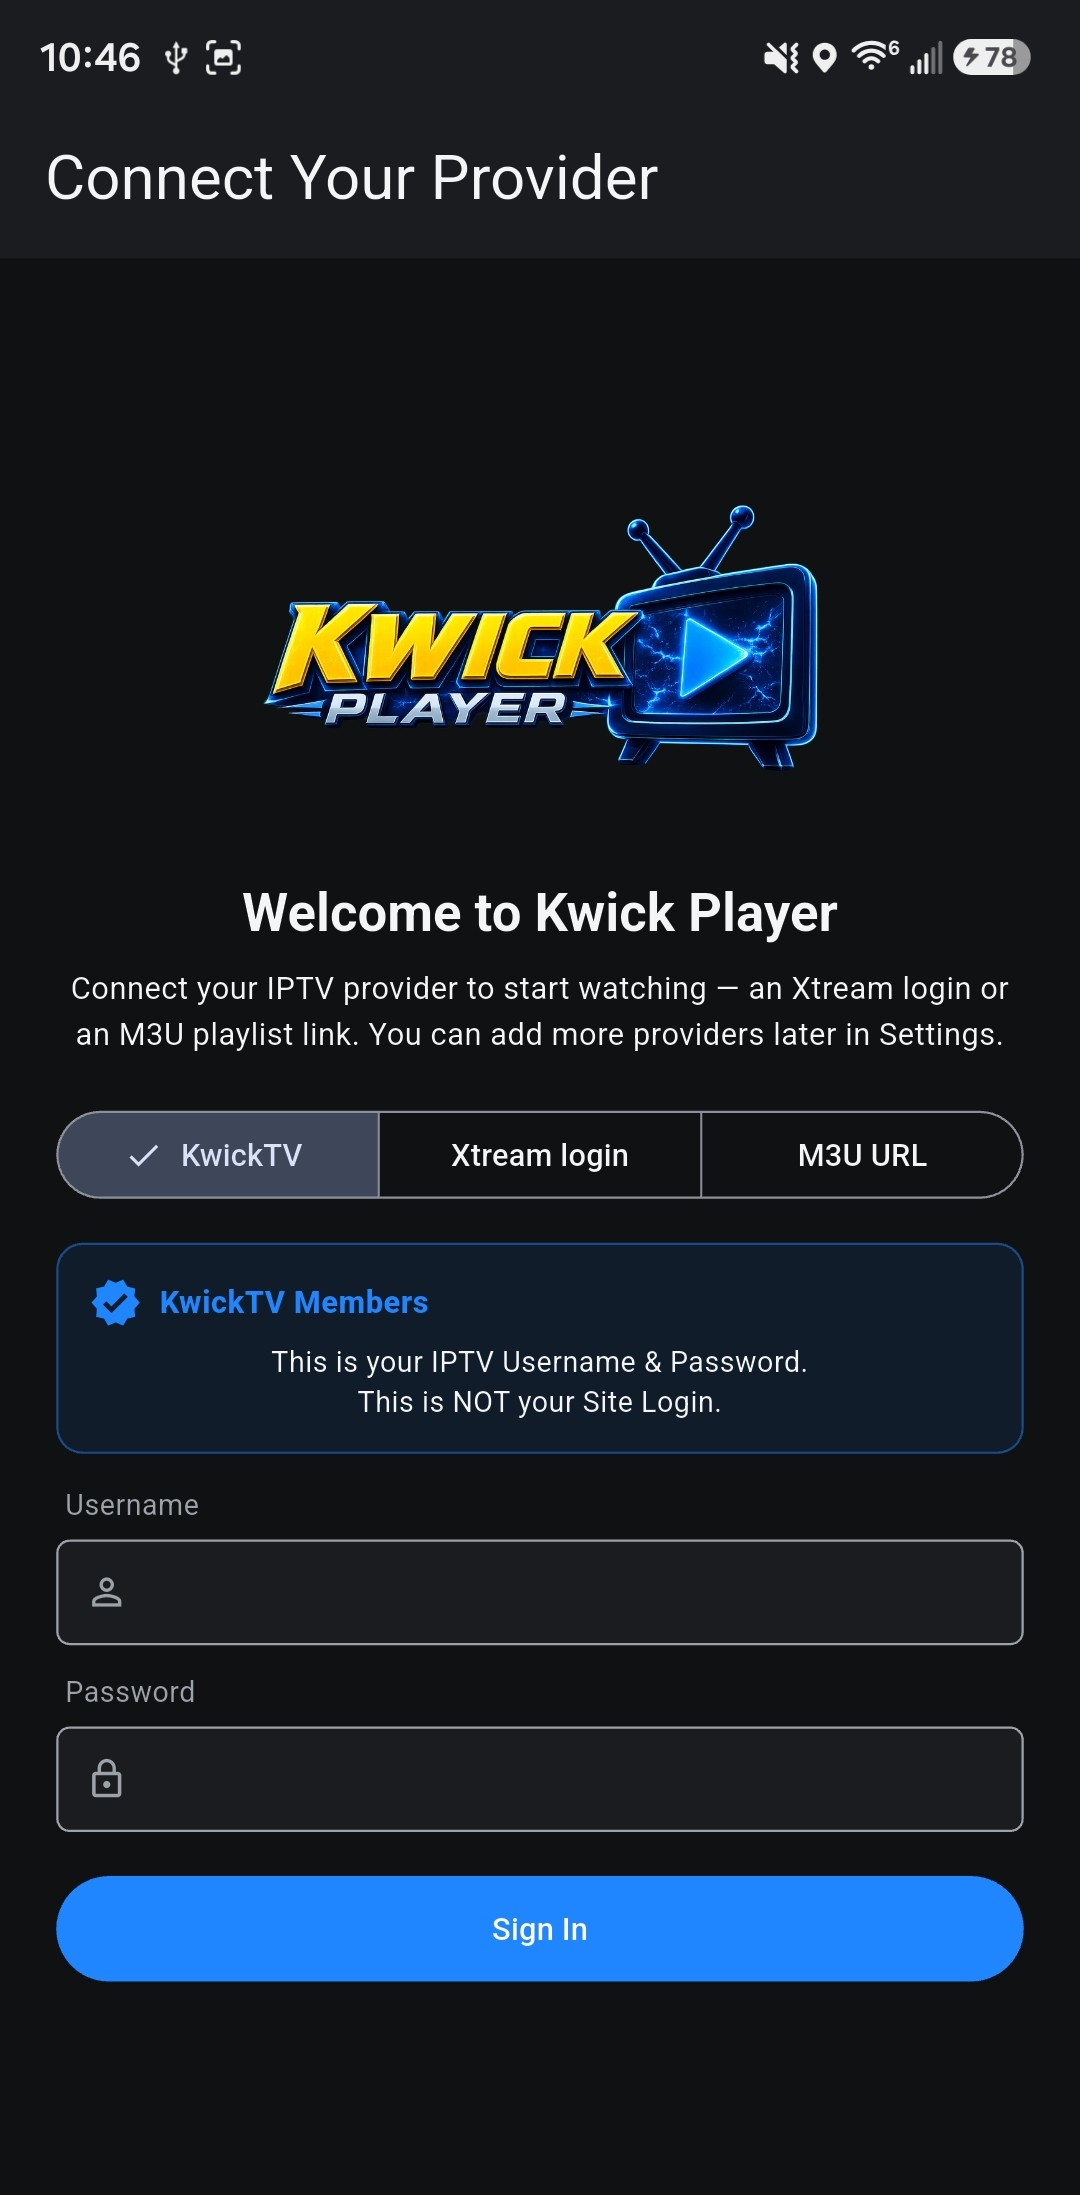
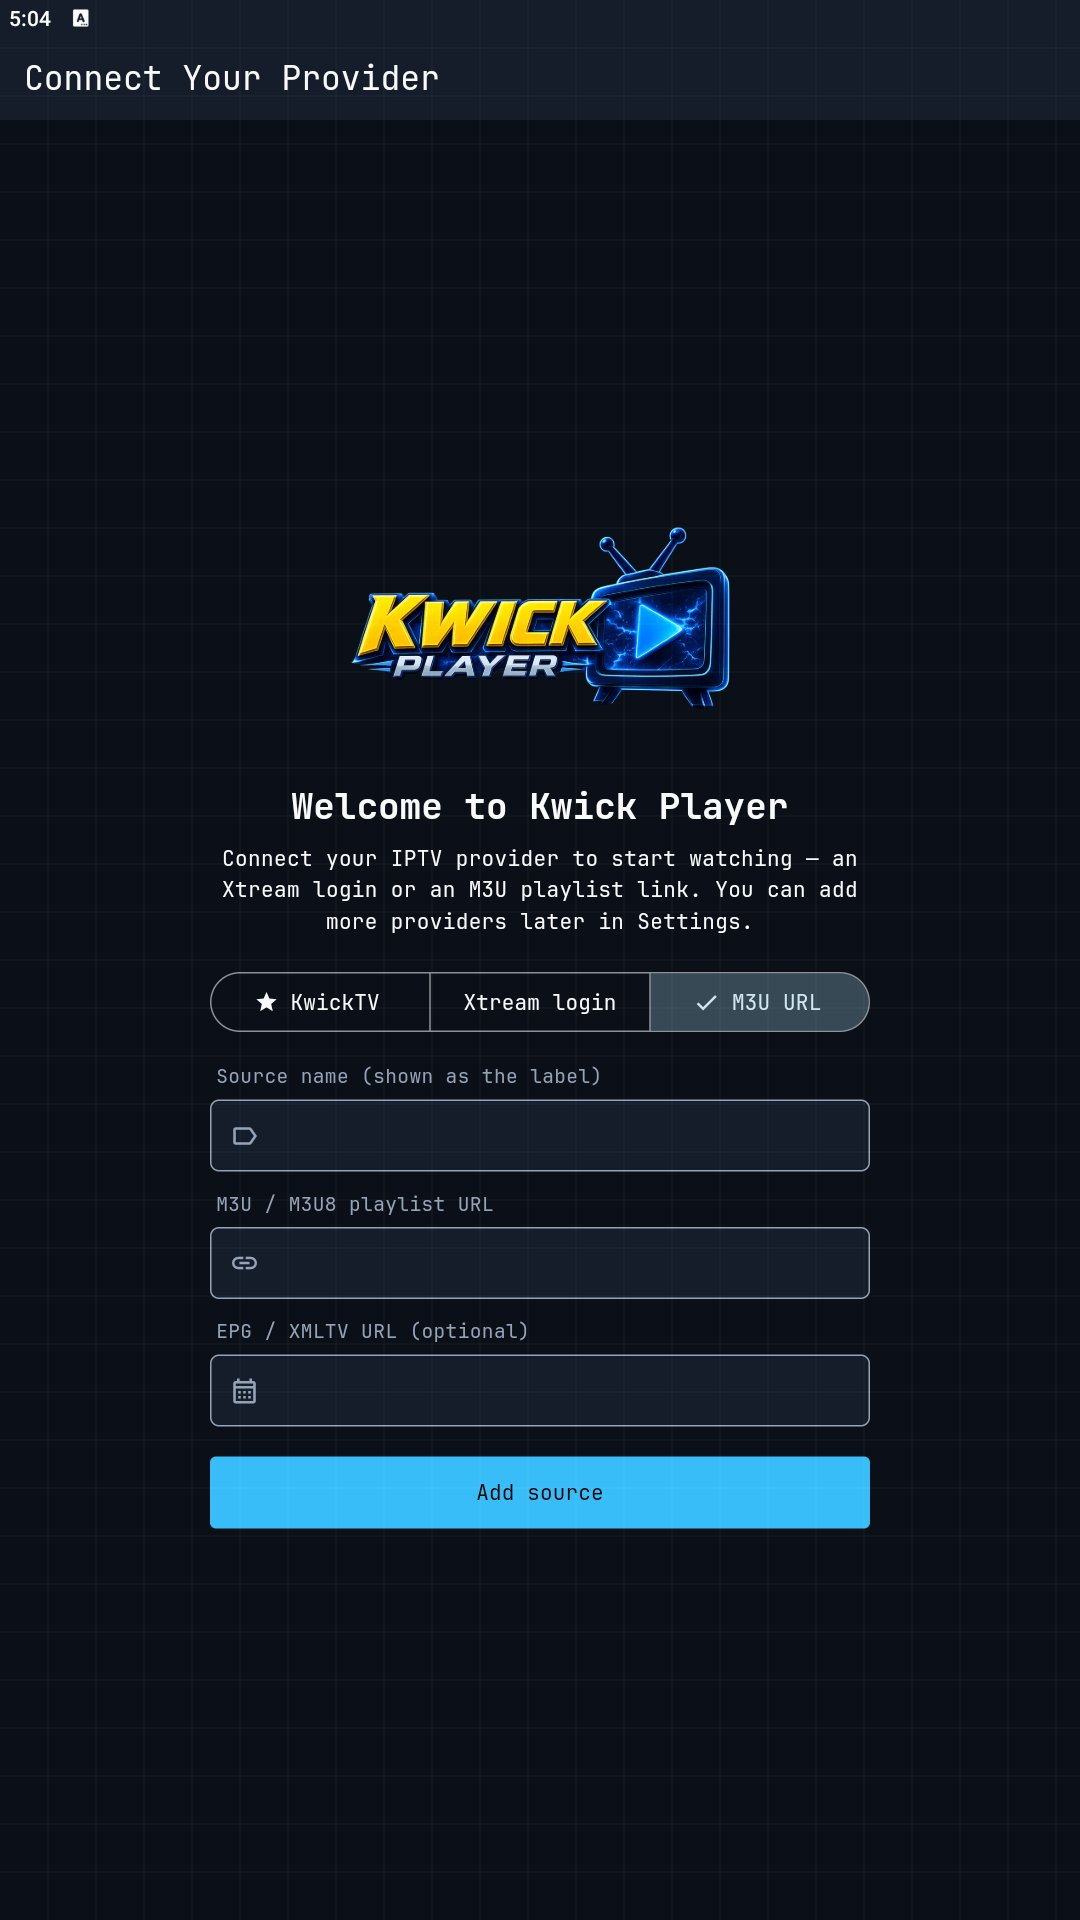
Refresh screenshots, credit new requests, fix stale links
Screenshots: replaced the whole set with current captures (18 shots, 9
landscape + 9 phone) showing the terminal theme the app actually ships. The
old landscape set predated the redesign. Dropped the stale player/movies/
series shots the new set supersedes, so there is one consistent set.

Contributors: added Kevin (Shuffle Episodes), and extended Ed (PPV its own
TV Guide tab) and Duffy (auto-update the channel list & guide on launch, plus
the report that cracked the black-screen bug).

Three things that had gone stale:
- The website badge pointed at the store domain. This README is public and
  linked from the app; the product site is kwickplayer.tv.
- Google Play said "coming soon" — it is submitted to production.
- The features list advertised the retro Fallout and Final Fantasy skins,
  which are no longer selectable (the theme picker offers the terminal
  family). Advertising a theme members cannot find is worse than not
  mentioning themes at all.

diff --git a/README.md b/README.md
@@ -13,7 +13,7 @@
 [![Discord](https://img.shields.io/badge/discord-join-5865F2?logo=discord&logoColor=white)](https://discord.gg/ruGAfxUmZ3)
 [![Telegram](https://img.shields.io/badge/telegram-join-26A5E4?logo=telegram&logoColor=white)](https://t.me/+8ifZv6x0sgAzOWE5)
 [![Facebook](https://img.shields.io/badge/facebook-follow-1877F2?logo=facebook&logoColor=white)](https://www.facebook.com/profile.php?id=61590978926218)
-[![Website](https://img.shields.io/badge/website-kwickflix.shop-1E7BD7?logo=googlechrome&logoColor=white)](https://kwickflix.shop/)
+[![Website](https://img.shields.io/badge/website-kwickplayer.tv-1E7BD7?logo=googlechrome&logoColor=white)](https://kwickplayer.tv/)
 
 [![Stars](https://img.shields.io/github/stars/Kwickflix/kwicktv-android?label=stars&color=FFD700&logo=github)](https://github.com/Kwickflix/kwicktv-android/stargazers)
 
@@ -36,7 +36,7 @@ Works on **Fire TV · Google TV · Nvidia Shield · ONN · phones · tablets**
 | Edition | Who it's for | Get it |
 |:--|:--|:--:|
 | **Kwick Player** | Everyone — KwickTV members sign in with just their username & password, or bring your own Xtream Codes / M3U provider | [![Download](https://img.shields.io/badge/download-APK-1E7BD7?logo=android&logoColor=white)](https://github.com/Kwickflix/kwicktv-android/releases/latest) |
-| **Kwick Player (Play Store)** | Auto-updating install from Google Play | [![Google Play](https://img.shields.io/badge/google_play-coming_soon-555?logo=googleplay&logoColor=white)](#) |
+| **Kwick Player (Play Store)** | Auto-updating install from Google Play | [![Google Play](https://img.shields.io/badge/google_play-get_it-3ddc84?logo=googleplay&logoColor=white)](https://play.google.com/store/apps/details?id=com.kwickplayer.official) |
 
 </div>
 
@@ -59,32 +59,35 @@ Kwick Player runs on more than one platform — grab the one for your device:
 
 <table>
   <tr>
-    <td align="center"><img src="assets/land-home.png" width="250"><br><sub><b>Home</b></sub></td>
-    <td align="center"><img src="assets/land-guide.png" width="250"><br><sub><b>TV Guide</b></sub></td>
-    <td align="center"><img src="assets/land-live.png" width="250"><br><sub><b>Live TV</b></sub></td>
+    <td align="center"><img src="assets/land-home.jpg" width="250"><br><sub><b>Home</b></sub></td>
+    <td align="center"><img src="assets/land-guide.jpg" width="250"><br><sub><b>TV Guide</b></sub></td>
+    <td align="center"><img src="assets/land-live.jpg" width="250"><br><sub><b>Live TV</b></sub></td>
   </tr>
   <tr>
-    <td align="center"><img src="assets/land-player.png" width="250"><br><sub><b>Player</b></sub></td>
-    <td align="center"><img src="assets/land-movies.png" width="250"><br><sub><b>Movies</b></sub></td>
-    <td align="center"><img src="assets/land-series.png" width="250"><br><sub><b>Series</b></sub></td>
+    <td align="center"><img src="assets/land-vod.jpg" width="250"><br><sub><b>Movies &amp; Series</b></sub></td>
+    <td align="center"><img src="assets/land-series-details.jpg" width="250"><br><sub><b>Series details</b></sub></td>
+    <td align="center"><img src="assets/land-movies-details.jpg" width="250"><br><sub><b>Movie details</b></sub></td>
+  </tr>
+  <tr>
+    <td align="center"><img src="assets/land-profile.jpg" width="250"><br><sub><b>Who&#39;s watching?</b></sub></td>
+    <td align="center"><img src="assets/land-settings.jpg" width="250"><br><sub><b>Settings</b></sub></td>
+    <td align="center"><img src="assets/land-login.jpg" width="250"><br><sub><b>Sign in</b></sub></td>
   </tr>
 </table>
 
 <details>
-<summary><b>📱 Phone screenshots</b></summary>
+<summary><b>&#128241; Phone screenshots</b></summary>
 <br>
 <table>
   <tr>
     <td align="center"><img src="assets/port-home.jpg" width="150"><br><sub>Home</sub></td>
-    <td align="center"><img src="assets/port-profile.jpg" width="150"><br><sub>Who's watching?</sub></td>
+    <td align="center"><img src="assets/port-profile.jpg" width="150"><br><sub>Who&#39;s watching?</sub></td>
     <td align="center"><img src="assets/port-guide.jpg" width="150"><br><sub>Guide</sub></td>
     <td align="center"><img src="assets/port-live.jpg" width="150"><br><sub>Live TV</sub></td>
-    <td align="center"><img src="assets/port-player.jpg" width="150"><br><sub>Player</sub></td>
-    <td align="center"><img src="assets/port-movies.jpg" width="150"><br><sub>Movies</sub></td>
+    <td align="center"><img src="assets/port-vod.jpg" width="150"><br><sub>Movies &amp; Series</sub></td>
   </tr>
   <tr>
     <td align="center"><img src="assets/port-movies-details.jpg" width="150"><br><sub>Movie details</sub></td>
-    <td align="center"><img src="assets/port-series.jpg" width="150"><br><sub>Series</sub></td>
     <td align="center"><img src="assets/port-series-details.jpg" width="150"><br><sub>Series details</sub></td>
     <td align="center"><img src="assets/port-settings.jpg" width="150"><br><sub>Settings</sub></td>
     <td align="center"><img src="assets/port-login.jpg" width="150"><br><sub>Sign in</sub></td>
@@ -109,7 +112,7 @@ Kwick Player runs on more than one platform — grab the one for your device:
 - **📱 Great on phones too** — lock-screen media controls (see what's playing, pause/resume), a fullscreen edge-to-edge mode, background listening with the screen off, Picture-in-Picture, and a screen lock against pocket-touches.
 - **🛟 One-tap support** — Export Logs sends diagnostics straight to the team, and Discord & Telegram are one tap away in Settings.
 - **🔒 Parental controls** — PIN-lock any live, movie, or series category (hidden completely or PIN-gated).
-- **🎨 Make it yours** — hide & reorder categories/channels/favorites, sort channels, sleep timer, and themes (including retro Fallout & Final Fantasy skins).
+- **🎨 Make it yours** — hide & reorder categories/channels/favorites, sort channels, sleep timer, and a family of terminal-inspired themes (Midnight Shell, Matrix Green, Purple Cyber, Amber CRT, Synthwave and more).
 - **🔗 Bring your other playlists** — add Xtream or M3U sources and everything merges into one library.
 
 ---
@@ -130,8 +133,9 @@ Kwick Player runs on more than one platform — grab the one for your device:
 
 Kwick Player is shaped by our community — the features below started as member requests. Huge thanks to:
 
-- **Ed** — subtitle & captions debugging, next / previous episode buttons, now-playing in the channel list
-- **Duffy** — the idea for KwickSync, auto-reconnect on stalls, Play from Beginning, Fallout theme tuning & fixes
+- **Ed** — subtitle & captions debugging, next / previous episode buttons, now-playing in the channel list, PPV its own TV Guide tab
+- **Duffy** — the idea for KwickSync, auto-reconnect on stalls, Play from Beginning, auto-update the channel list & guide on launch, and the report that cracked the black-screen bug
+- **Kevin** — Shuffle Episodes: play a series in random order until you stop it
 - **Tiredofitall** — auto-play next episode
 - **ZZ** — Movies/Series category bar, Show Recently Watched toggle
 - **UnderDeztrukshun** — Picture-in-Picture on/off
